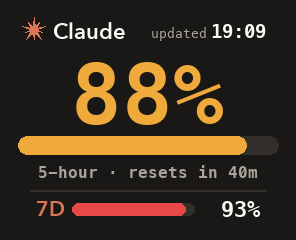
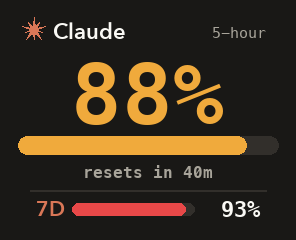
Drop the "updated HH:MM" clock from the face
A clock that stays put while the numbers hold still makes the cube look
frozen. Without it there is nothing to refresh, so the 30-minute heartbeat
goes too: the face is sent only when the picture would change.

Changed region(s): [[0.1216, 0.6708, 0.7297, 0.7583], [0.5169, 0.0875, 0.9122, 0.175], [0.7601, 0.6708, 0.8818, 0.7583]]

diff --git a/face_styles.py b/face_styles.py
@@ -1,7 +1,6 @@
 """Alternative 296x240 layouts for the cube's Claude usage face.
 
 Pick one by writing its letter to face_style.txt (default "C"); push_face.py uses render().
-B, C and E also show when the picture was sent ("updated HH:MM").
   A bars    - stacked rows, big %, thick bars
   B rings   - two ring gauges side by side
   C hero    - giant 5-hour number, week as a footer line (default)
@@ -49,14 +48,6 @@ def brand(d, x, y, size, ink=CREAM, mark=CORAL):
     d.text((x + size * 0.85, y + size * 0.42), "Claude", font=F(AV, size, AV_DEMI), fill=ink, anchor="ls")
 
 
-def stamp(d, updated, x, y, ink=CREAM, soft=GREY):
-    """'updated HH:MM' (local time), right-aligned on baseline y."""
-    hm = time.strftime("%H:%M", time.localtime(updated))
-    f_hm = F(MONO, 19, 1)
-    d.text((x, y), hm, font=f_hm, fill=ink, anchor="rs")
-    d.text((x - 4 - d.textlength(hm, font=f_hm), y), "updated", font=F(MONO, 13), fill=soft, anchor="rs")
-
-
 def pill(d, box, fill, r=None):
     x0, y0, x1, y1 = box
     d.rounded_rectangle(box, radius=r if r is not None else (y1 - y0) // 2, fill=fill)
@@ -69,20 +60,17 @@ def bar(d, x0, y0, x1, y1, p, track, color):
 
 
 # --------------------------------------------------------------------------- A
-def style_a(usage, now, updated=None):
+def style_a(usage, now):
     return rf.render(usage, now)
 
 
 # --------------------------------------------------------------------------- B
-def style_b(usage, now, updated=None):
+def style_b(usage, now):
     p5, r5, p7, r7 = values(usage, now)
     im = Image.new("RGB", (W, H), BG)
     d = ImageDraw.Draw(im)
     brand(d, 28, 26, 24)
-    if updated:
-        stamp(d, updated, W - 26, 35)
-    else:
-        d.text((W - 26, 35), "usage", font=F(MONO, 15), fill=GREY, anchor="rs")
+    d.text((W - 26, 35), "usage", font=F(MONO, 15), fill=GREY, anchor="rs")
     for cx, label, p, r in ((76, "5H", p5, r5), (220, "7D", p7, r7)):
         cy, R, wd = 130, 56, 14
         box = (cx - R, cy - R, cx + R, cy + R)
@@ -102,17 +90,16 @@ def style_b(usage, now, updated=None):
 
 
 # --------------------------------------------------------------------------- C
-def style_c(usage, now, updated=None):
+def style_c(usage, now):
     p5, r5, p7, r7 = values(usage, now)
     im = Image.new("RGB", (W, H), BG)
     d = ImageDraw.Draw(im)
     # The real screen has rounded corners and a bezel lip: keep corner items well inside.
     brand(d, 34, 30, 22)
-    if updated:  # time this picture was sent to the cube, top right
-        stamp(d, updated, W - 30, 38)
+    d.text((W - 30, 38), "5-hour", font=F(MONO, 15), fill=GREY, anchor="rs")
     d.text((W // 2, 124), f"{p5:.0f}%", font=F(MONO, 84, 1), fill=level(p5, ok=CREAM), anchor="ms")
     bar(d, 18, 136, W - 18, 154, p5, TRACK, level(p5))
-    d.text((W // 2, 178), "5-hour · resets in " + rf._left(r5, now), font=F(MONO, 16, 1), fill=GREY, anchor="ms")
+    d.text((W // 2, 178), "resets in " + rf._left(r5, now), font=F(MONO, 16, 1), fill=GREY, anchor="ms")
     d.line((30, 190, W - 30, 190), fill=TRACK, width=2)
     d.text((36, 216), "7D", font=F(AV, 21, AV_DEMI), fill=CORAL, anchor="ls")
     bar(d, 72, 203, 194, 215, p7, TRACK, level(p7))
@@ -125,7 +112,7 @@ N_BG, N_PANEL, N_EDGE, N_INK = (115, 230, 239), (236, 252, 253), (36, 128, 148),
 N_SOFT, N_EMPTY, N_FILL = (70, 140, 155), (186, 232, 238), (214, 74, 148)
 
 
-def style_d(usage, now, updated=None):
+def style_d(usage, now):
     p5, r5, p7, r7 = values(usage, now)
     im = Image.new("RGB", (W, H), N_BG)
     d = ImageDraw.Draw(im)
@@ -154,15 +141,12 @@ def style_d(usage, now, updated=None):
 P_BG, P_INK, P_CORAL, P_GREY, P_TRACK, P_RULE = (240, 238, 230), (31, 30, 29), (196, 98, 66), (118, 113, 103), (221, 216, 203), (205, 199, 185)
 
 
-def style_e(usage, now, updated=None):
+def style_e(usage, now):
     p5, r5, p7, r7 = values(usage, now)
     im = Image.new("RGB", (W, H), P_BG)
     d = ImageDraw.Draw(im)
     brand(d, 28, 26, 24, ink=P_INK, mark=P_CORAL)
-    if updated:
-        stamp(d, updated, W - 26, 35, ink=P_INK, soft=P_GREY)
-    else:
-        d.text((W - 26, 35), "usage", font=F(MONO, 15), fill=P_GREY, anchor="rs")
+    d.text((W - 26, 35), "usage", font=F(MONO, 15), fill=P_GREY, anchor="rs")
     d.line((14, 48, W - 14, 48), fill=P_RULE, width=2)
     d.line((148, 64, 148, 222), fill=P_RULE, width=2)
     for x0, cap, p, r in ((14, "5 HOURS", p5, r5), (162, "7 DAYS", p7, r7)):
@@ -174,7 +158,7 @@ def style_e(usage, now, updated=None):
 
 
 # --------------------------------------------------------------------------- F
-def style_f(usage, now, updated=None):
+def style_f(usage, now):
     p5, r5, p7, r7 = values(usage, now)
     im = Image.new("RGB", (W, H), BG)
     d = ImageDraw.Draw(im)
@@ -199,9 +183,8 @@ def selected():
         return "C"
 
 
-def render(usage, now=None, style=None, updated=None) -> Image.Image:
-    """updated = epoch seconds to print as "updated HH:MM" (style C); None leaves it out."""
-    return STYLES[style or selected()](usage, now or time.time(), updated)
+def render(usage, now=None, style=None) -> Image.Image:
+    return STYLES[style or selected()](usage, now or time.time())
 
 
 if __name__ == "__main__":
@@ -216,7 +199,7 @@ if __name__ == "__main__":
     os.makedirs(out, exist_ok=True)
     for state, u in samples.items():
         for k, fn in STYLES.items():
-            fn(u, now, now).save(os.path.join(out, f"{k}-{state}.png"))
+            fn(u, now).save(os.path.join(out, f"{k}-{state}.png"))
     sheet = Image.new("RGB", (W * 3 + 40, (H + 10) * 4 + 10), (60, 60, 60))
     for i, (state, k) in enumerate((s, k) for s in samples for k in STYLES):
         im = Image.open(os.path.join(out, f"{k}-{state}.png"))

diff --git a/push_face.py b/push_face.py
@@ -1,8 +1,7 @@
 """Render the Claude usage face and upload it to the cube as the custom face.
 
 usage: .venv/bin/python push_face.py                 # fetch usage, render, upload
-       .venv/bin/python push_face.py --if-changed    # upload only when the numbers changed,
-                                                     # or the "updated HH:MM" stamp is HEARTBEAT old
+       .venv/bin/python push_face.py --if-changed    # upload only when the picture would change
        .venv/bin/python push_face.py --find          # forget the saved cube and look for it again
 
 The first run looks for the cube's JieLi chip (the Bluetooth side that stores files) and saves
@@ -25,9 +24,8 @@ from bleak import BleakScanner   # noqa: E402
 
 CONF = os.path.join(HERE, "cube.json")         # {"mac": "AA:BB:CC:DD:EE:FF"}
 PNG = os.path.join(HERE, "face_preview.png")    # last picture sent, for a look on the Mac
-STAMP = os.path.join(HERE, ".last_face_sha")    # "<content sha> <upload epoch>"
+STAMP = os.path.join(HERE, ".last_face_sha")    # sha of the last picture sent
 COMPANY_ID = 0xB1B1   # manufacturer id in the cube's JieLi-side advertisement
-HEARTBEAT = 30 * 60   # refresh the clock this often even when the numbers hold still (spares the cube's flash)
 NOT_FOUND = ("cube not found: switch it on, keep it close to the Mac, "
              "and close the MikuCube phone app if it is connected")
 
@@ -80,18 +78,16 @@ async def main():
         os.remove(CONF)
     usage = usage_source.get_usage()
     now = time.time()
-    # compare the face without its clock, so the clock alone never forces an upload
-    sha = hashlib.sha256(face_styles.render(usage, now).tobytes()).hexdigest()
+    face_styles.render(usage, now).save(PNG)
+    data = cp.encode_image_file(PNG)
+    sha = hashlib.sha256(data).hexdigest()
     try:
-        last_sha, last_t = open(STAMP).read().split()
-        last_t = float(last_t)
-    except (OSError, ValueError):
-        last_sha, last_t = "", 0.0
-    if only_changed and sha == last_sha and now - last_t < HEARTBEAT - 60:
+        last_sha = open(STAMP).read().split()[0]
+    except (OSError, IndexError):
+        last_sha = ""
+    if only_changed and sha == last_sha:
         print("unchanged:", usage_source.format_text(usage))
         return
-    face_styles.render(usage, now, updated=now).save(PNG)
-    data = cp.encode_image_file(PNG)
     mac = saved_mac() or await discover_mac()
     quiet = lambda s: None if s.startswith(("->", "<-", "block")) else print(s, flush=True)
     async with cp.CubeClient(await find(mac), log=quiet) as c:
@@ -100,7 +96,7 @@ async def main():
         if not ba or b"10000001.RES" not in ba:
             await c.set_face("10000001.RES",
                              json_text='{"name":"自定义背景","id":"10000001.RES","md5":"","rcnt":1,"edly":0}')
-    open(STAMP, "w").write(f"{sha} {now:.0f}")
+    open(STAMP, "w").write(sha)
     print(time.strftime("uploaded %H:%M:", time.localtime(now)), usage_source.format_text(usage))
 
 

diff --git a/README.th.md b/README.th.md
@@ -4,12 +4,11 @@
 
 [English](README.md)
 
-<img src="face_options/C-normal.png" width="296" alt="หน้าจอ cube: Claude, updated 19:09, เลข 42% ตัวใหญ่, แถบ 5 ชั่วโมงที่จะรีเซ็ตใน 2 ชม., และแถบ 7 วันที่ 18%">
+<img src="face_options/C-normal.png" width="296" alt="หน้าจอ cube: Claude, เลข 42% ตัวใหญ่, แถบ 5 ชั่วโมงที่จะรีเซ็ตใน 2 ชม., และแถบ 7 วันที่ 18%">
 
 - **เลขใหญ่:** ใช้โควต้า 5 ชั่วโมงไปกี่ % แล้ว ถึง 70% จะเป็นสีส้ม ถึง 90% จะเป็นสีแดง
 - **บรรทัดใต้แถบ:** อีกนานแค่ไหนโควต้า 5 ชั่วโมงจะรีเซ็ต
 - **7D:** โควต้ารายสัปดาห์
-- **updated 19:09:** ส่งรูปขึ้น cube ล่าสุดตอนกี่โมง
 
 ## ต้องมีอะไรบ้าง
 
@@ -63,15 +62,13 @@ cd claudecube
 | E | Paper | พื้นสว่าง สองคอลัมน์ |
 | F | Big type | มีแต่ตัวเลข ใหญ่เท่าที่จอจะใส่ได้ |
 
-แบบ B, C และ E จะมีเวลา "updated" ด้วย
-
 ## ทำงานยังไง
 
 ทุก 5 นาที macOS จะรัน `push_face.py` ซึ่งทำ 3 ขั้นตอน:
 
 1. **อ่านตัวเลขการใช้งาน** จากที่เดียวกับที่ `/usage` ของ Claude Code อ่าน โดยใช้การล็อกอินที่ Claude Code เก็บไว้ใน Keychain ของ Mac อยู่แล้ว ข้อมูลล็อกอินนี้ส่งไปที่ `api.anthropic.com` เท่านั้น ไม่ถูกบันทึกลงไฟล์และไม่ถูกพิมพ์ออกมา
 2. **วาดรูปขนาด 296×240**
-3. **ส่งรูปขึ้น cube ทาง Bluetooth** เป็นหน้า custom face หน้าอื่นใน cube ไม่ถูกแตะ จะส่งเฉพาะตอนตัวเลขเปลี่ยน ถ้าตัวเลขไม่เปลี่ยนจะส่งทุก 30 นาทีเพื่ออัปเดตเวลาอย่างเดียว ถ้าส่งทุก 5 นาทีจะทำให้หน่วยความจำของ cube สึกโดยไม่จำเป็น
+3. **ส่งรูปขึ้น cube ทาง Bluetooth** เป็นหน้า custom face หน้าอื่นใน cube ไม่ถูกแตะ จะส่งเฉพาะตอนรูปเปลี่ยน หน่วยความจำของ cube จะได้ไม่ถูกเขียนซ้ำโดยไม่จำเป็น
 
 ## มีปัญหา
 
@@ -80,7 +77,7 @@ cd claudecube
 | `cube not found` | เช็กว่า cube เปิดอยู่และอยู่ใกล้ Mac แล้วปิดแอป MikuCube ในมือถือ (cube คุยได้ทีละเครื่อง) จากนั้นรัน `./claudecube.sh now` |
 | Bluetooth ต่อไม่ได้เลย | ไปที่ System Settings → Privacy & Security → Bluetooth แล้วอนุญาต Terminal หรือแอปที่ใช้รันตอนติดตั้ง |
 | `could not read Claude usage` | เปิด Claude Code สักครั้งให้มันรีเฟรชการล็อกอิน ถ้ายังไม่หาย ให้พิมพ์ `/login` ใน Claude Code |
-| เวลา "updated" เก่าเกิน ~35 นาที | Mac หลับอยู่ หรือ cube อยู่ไกลเกินไป เดี๋ยวมันจะตามทันเอง ดูสาเหตุได้ด้วย `./claudecube.sh log` |
+| ตัวเลขดูไม่อัปเดต | Mac หลับอยู่ หรือ cube อยู่ไกลเกินไป เดี๋ยวมันจะตามทันเองภายใน 5 นาที ดูสาเหตุได้ด้วย `./claudecube.sh log` |
 | ย้ายโฟลเดอร์ `claudecube` ไปที่อื่น | รัน `./claudecube.sh install` ใหม่ |
 
 ## เอาออก

diff --git a/README.md b/README.md
@@ -4,12 +4,11 @@ Show your Claude usage on the screen of a **Hatsune Miku CUBEFACE**: your 5-hour
 
 [ภาษาไทย](README.th.md)
 
-<img src="face_options/C-normal.png" width="296" alt="The cube screen: Claude, updated 19:09, 42% in large type, a 5-hour bar that resets in 2h, and a 7-day bar at 18%">
+<img src="face_options/C-normal.png" width="296" alt="The cube screen: Claude, 42% in large type, a 5-hour bar that resets in 2h, and a 7-day bar at 18%">
 
 - **Big number:** how much of your 5-hour limit you've used. It turns amber at 70% and red at 90%.
 - **Line under the bar:** when the 5-hour window resets.
 - **7D:** your weekly limit.
-- **updated 19:09:** when the cube last got a new picture.
 
 ## What you need
 
@@ -63,15 +62,13 @@ Default is **C**. Change it with `./claudecube.sh style <letter>`.
 | E | Paper | Light background, two columns |
 | F | Big type | Numbers only, as large as they fit |
 
-B, C and E also show the "updated" time.
-
 ## How it works
 
 Every 5 minutes, macOS runs `push_face.py`:
 
 1. **It reads your usage** from the same place Claude Code's `/usage` does. It signs in with the login Claude Code already keeps in your Mac's Keychain. That login is sent only to `api.anthropic.com`, and is never saved to a file or printed.
 2. **It draws a 296×240 picture.**
-3. **It sends the picture to the cube over Bluetooth**, as the cube's custom face. Your other faces are left alone. It only sends when your numbers change, and otherwise every 30 minutes just to move the clock forward. Sending every 5 minutes would wear out the cube's storage for no reason.
+3. **It sends the picture to the cube over Bluetooth**, as the cube's custom face. Your other faces are left alone. It only sends when the picture would change, so the cube's storage isn't rewritten for nothing.
 
 ## If something's wrong
 
@@ -80,7 +77,7 @@ Every 5 minutes, macOS runs `push_face.py`:
 | `cube not found` | Make sure the cube is on and near the Mac. Close the MikuCube app on your phone, since the cube talks to one device at a time. Then run `./claudecube.sh now`. |
 | Bluetooth never connects | Go to System Settings → Privacy & Security → Bluetooth and allow Terminal, or whichever app you ran the install from. |
 | `could not read Claude usage` | Open Claude Code once so it refreshes its login. If that doesn't work, run `/login` in Claude Code. |
-| The "updated" time is more than ~35 minutes old | The Mac was asleep or the cube was out of range. It catches up by itself. To see why, run `./claudecube.sh log`. |
+| The numbers look out of date | The Mac was asleep or the cube was out of range. It catches up by itself within 5 minutes. To see why, run `./claudecube.sh log`. |
 | You moved the `claudecube` folder | Run `./claudecube.sh install` again. |
 
 ## Remove it
